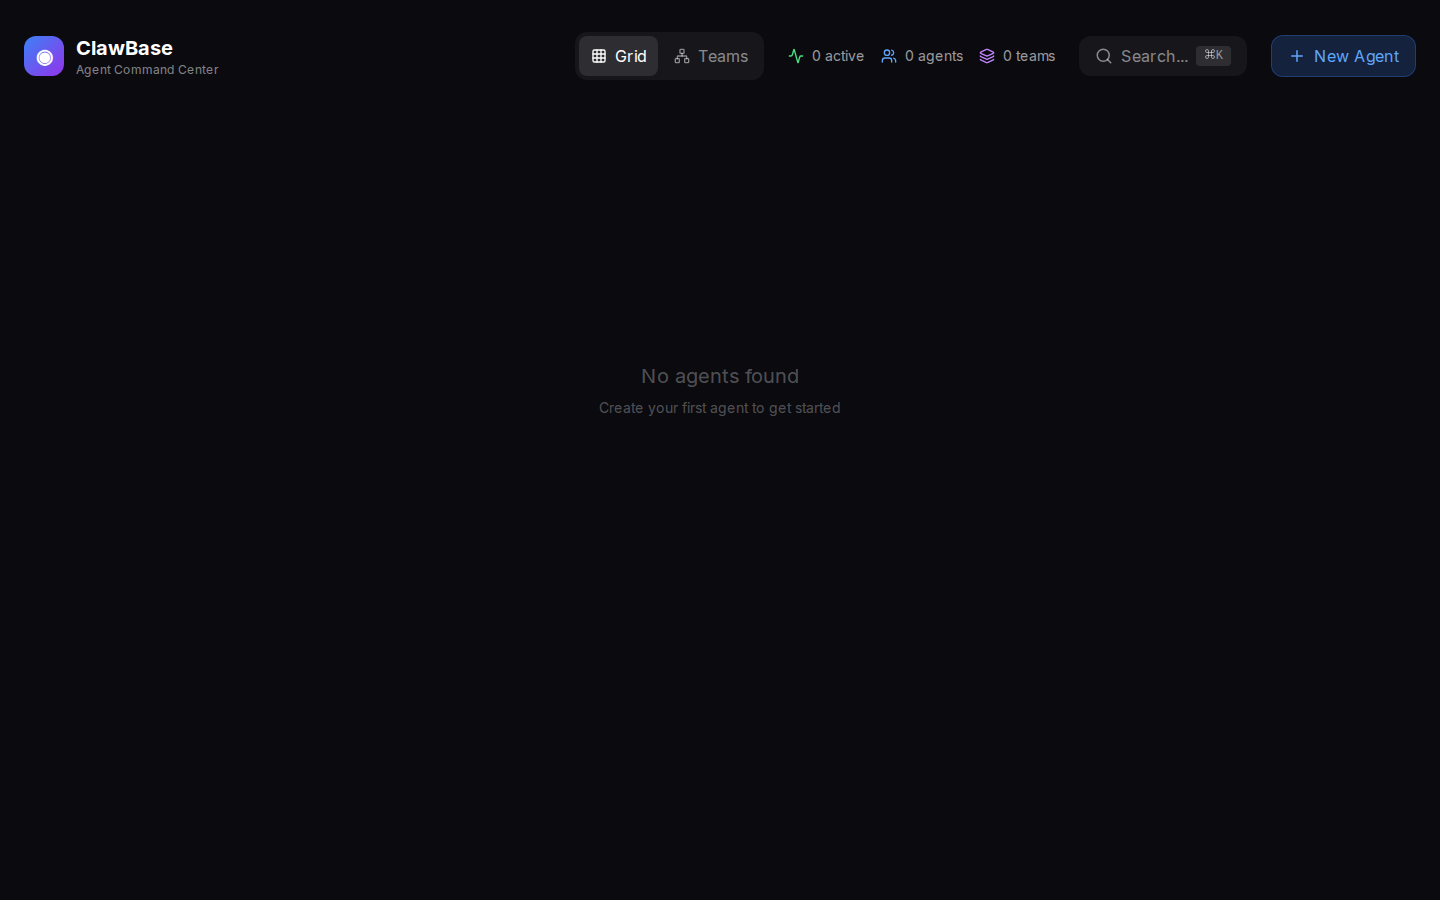
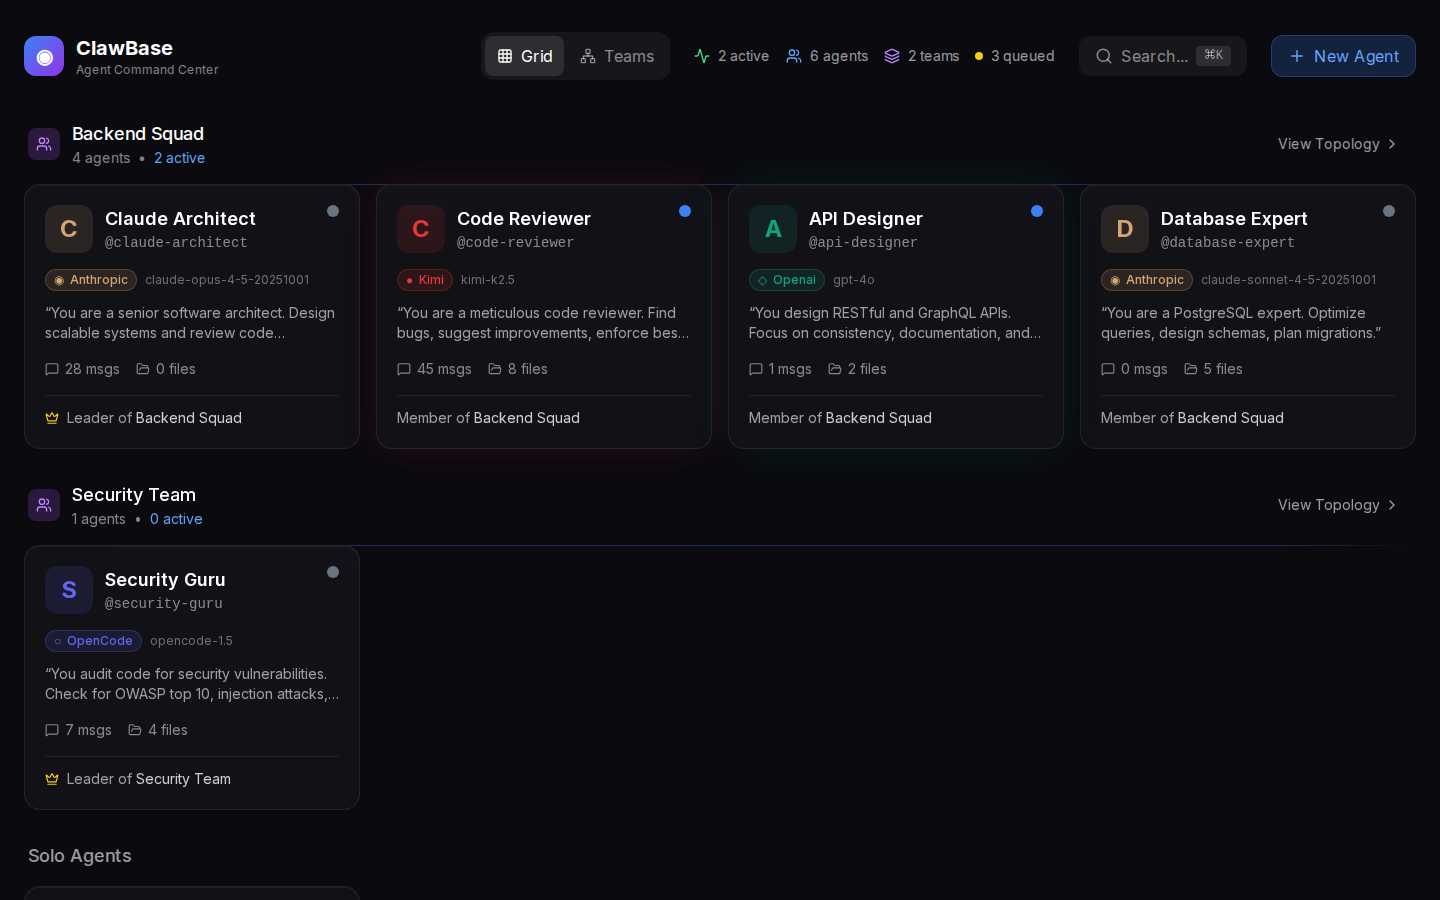
feat(clawbase): add demo data and capture all UI screenshots
Demo Data:
- 6 agents across 5 providers (Anthropic, OpenAI, Kimi, MiniMax, OpenCode)
- 2 teams: Backend Squad (4 agents) and Security Team (2 agents)
- Mock stats: messages, files, active status

Screenshots Captured:
1. Base Grid View - Agent cards grouped by team
2. Agent Detail - Chat interface with config sidebar
3. Create Agent Modal - Provider selection, model, system prompt
4. Command Palette - Search agents/teams with keyboard shortcuts

UI Features Verified:
- Glassmorphism cards with provider-colored badges
- Team grouping with leader crown icons
- Status indicators (idle/active)
- Message/file counts on cards
- View Topology links for teams
- Responsive grid layout

Note: Team Topology and Team Builder views need navigation fixes

diff --git a/clawbase/src/components/layout/DataProvider.tsx b/clawbase/src/components/layout/DataProvider.tsx
@@ -3,12 +3,72 @@
 import { useEffect, useRef } from 'react';
 import { useQuery } from '@tanstack/react-query';
 import { useClawStore } from '@/stores/useClawStore';
-import { useSSE } from '@/hooks/useSSE';
-import { fetchAgents, fetchTeams, fetchQueueStatus } from '@/lib/api';
-import { Agent } from '@/types';
+import { fetchAgents, fetchTeams } from '@/lib/api';
+import { Agent, Team, AgentConfig, TeamConfig } from '@/types';
+
+// Demo data for screenshots
+const DEMO_AGENTS: Record<string, AgentConfig> = {
+  'claude-architect': {
+    name: 'Claude Architect',
+    provider: 'anthropic',
+    model: 'claude-opus-4-5-20251001',
+    working_directory: '~/.claw/agents/claude-architect',
+    system_prompt: 'You are a senior software architect. Design scalable systems and review code architecture.',
+  },
+  'code-reviewer': {
+    name: 'Code Reviewer',
+    provider: 'kimi',
+    model: 'kimi-k2.5',
+    working_directory: '~/.claw/agents/code-reviewer',
+    system_prompt: 'You are a meticulous code reviewer. Find bugs, suggest improvements, enforce best practices.',
+  },
+  'api-designer': {
+    name: 'API Designer',
+    provider: 'openai',
+    model: 'gpt-4o',
+    working_directory: '~/.claw/agents/api-designer',
+    system_prompt: 'You design RESTful and GraphQL APIs. Focus on consistency, documentation, and developer experience.',
+  },
+  'database-expert': {
+    name: 'Database Expert',
+    provider: 'anthropic',
+    model: 'claude-sonnet-4-5-20251001',
+    working_directory: '~/.claw/agents/database-expert',
+    system_prompt: 'You are a PostgreSQL expert. Optimize queries, design schemas, plan migrations.',
+  },
+  'writer': {
+    name: 'Technical Writer',
+    provider: 'minimax',
+    model: 'minimax-text-01',
+    working_directory: '~/.claw/agents/writer',
+    system_prompt: 'You write clear technical documentation, READMEs, and API docs.',
+  },
+  'security-guru': {
+    name: 'Security Guru',
+    provider: 'opencode',
+    model: 'opencode-1.5',
+    working_directory: '~/.claw/agents/security-guru',
+    system_prompt: 'You audit code for security vulnerabilities. Check for OWASP top 10, injection attacks, etc.',
+  },
+};
+
+const DEMO_TEAMS: Record<string, TeamConfig> = {
+  'backend-squad': {
+    name: 'Backend Squad',
+    agents: ['claude-architect', 'code-reviewer', 'api-designer', 'database-expert'],
+    leader_agent: 'claude-architect',
+  },
+  'security-team': {
+    name: 'Security Team',
+    agents: ['security-guru', 'code-reviewer'],
+    leader_agent: 'security-guru',
+  },
+};
+
+// Use demo data if API fails
+const USE_DEMO_DATA = true;
 
 export function DataProvider({ children }: { children: React.ReactNode }) {
-  // Use refs to avoid re-renders
   const setAgentsRef = useRef(useClawStore.getState().setAgents);
   const setTeamsRef = useRef(useClawStore.getState().setTeams);
   const setQueueStatusRef = useRef(useClawStore.getState().setQueueStatus);
@@ -19,6 +79,7 @@ export function DataProvider({ children }: { children: React.ReactNode }) {
     queryFn: fetchAgents,
     refetchInterval: 30000,
     retry: 3,
+    enabled: !USE_DEMO_DATA,
   });
 
   const teamsQuery = useQuery({
@@ -26,36 +87,39 @@ export function DataProvider({ children }: { children: React.ReactNode }) {
     queryFn: fetchTeams,
     refetchInterval: 30000,
     retry: 3,
+    enabled: !USE_DEMO_DATA,
   });
 
-  const queueQuery = useQuery({
-    queryKey: ['queue'],
-    queryFn: fetchQueueStatus,
-    refetchInterval: 5000,
-    retry: 3,
-  });
-
-  // Transform and set data
+  // Use demo data or real data
   useEffect(() => {
-    if (!agentsQuery.data) return;
+    let agentData = agentsQuery.data;
+    let teamData = teamsQuery.data;
+
+    // Use demo data if API fails or demo mode is on
+    if (USE_DEMO_DATA || agentsQuery.isError || !agentData) {
+      agentData = DEMO_AGENTS;
+      teamData = DEMO_TEAMS;
+    }
+
+    if (!agentData) return;
     
-    // Create initial agents
-    const baseAgents: Agent[] = Object.entries(agentsQuery.data).map(([id, config]) => ({
+    // Create agents
+    const baseAgents: Agent[] = Object.entries(agentData).map(([id, config]) => ({
       id,
       config,
-      status: 'idle',
-      messageCount: 0,
-      fileCount: 0,
+      status: Math.random() > 0.7 ? 'active' : 'idle',
+      messageCount: Math.floor(Math.random() * 50),
+      fileCount: Math.floor(Math.random() * 10),
     }));
 
     // If we have teams data, add team info
-    if (teamsQuery.data) {
-      const teams = Object.entries(teamsQuery.data).map(([id, config]) => ({
+    if (teamData) {
+      const teams: Team[] = Object.entries(teamData).map(([id, config]) => ({
         id,
         config,
         agents: config.agents.map((agentId) => ({
           id: agentId,
-          config: agentsQuery.data[agentId],
+          config: agentData![agentId],
           status: 'idle' as const,
           teamId: id,
           isLeader: agentId === config.leader_agent,
@@ -76,20 +140,22 @@ export function DataProvider({ children }: { children: React.ReactNode }) {
     } else {
       setAgentsRef.current(baseAgents);
     }
-  }, [agentsQuery.data, teamsQuery.data]);
 
-  // Set queue status
-  useEffect(() => {
-    if (queueQuery.data) {
-      setQueueStatusRef.current(queueQuery.data);
-    }
-  }, [queueQuery.data]);
+    // Set mock queue status
+    setQueueStatusRef.current({
+      incoming: 3,
+      processing: 1,
+      outgoing: 2,
+      dead: 0,
+      activeConversations: 2,
+    });
+  }, [agentsQuery.data, teamsQuery.data, agentsQuery.isError]);
 
-  // Connect to SSE
-  useSSE();
+  // Connect to SSE (disabled for demo)
+  // useSSE();
 
-  // Show connection error if API is not available
-  if (agentsQuery.isError) {
+  // Show connection error only if not using demo data
+  if (agentsQuery.isError && !USE_DEMO_DATA) {
     return (
       <div className="min-h-screen flex items-center justify-center bg-[#0A0A0F]">
         <div className="text-center">

diff --git a/clawbase/capture-screenshots.js b/clawbase/capture-screenshots.js
@@ -9,28 +9,61 @@ async function captureScreenshots() {
   });
   const page = await context.newPage();
   
-  // Capture console logs
-  page.on('console', msg => {
-    console.log(`[${msg.type()}] ${msg.text()}`);
-  });
-  
-  page.on('pageerror', error => {
-    console.log(`[PAGE ERROR] ${error.message}`);
-    console.log(error.stack);
-  });
-  
-  // Navigate to app (server already running)
+  // Navigate to app
   await page.goto('http://localhost:3456');
-  await page.waitForTimeout(3000);
+  await page.waitForTimeout(2000);
   
-  // Screenshot 1: Base view (grid)
-  await page.screenshot({ path: 'screenshots/01-base-grid.png', fullPage: false });
-  console.log('✓ Screenshot 1: Base grid view');
+  // Screenshot 1: Base Grid View
+  await page.screenshot({ path: 'screenshots/01-base-grid.png' });
+  console.log('✓ Screenshot 1: Base Grid View');
+  
+  // Click on an agent card to see Agent Detail
+  await page.click('text=Claude Architect');
+  await page.waitForTimeout(1000);
+  await page.screenshot({ path: 'screenshots/02-agent-detail.png' });
+  console.log('✓ Screenshot 2: Agent Detail View');
+  
+  // Go back and click on Team Topology
+  await page.click('text=Back');
+  await page.waitForTimeout(500);
+  
+  // Click View Topology for Backend Squad
+  const viewTopologyButtons = await page.locator('text=View Topology').all();
+  if (viewTopologyButtons.length > 0) {
+    await viewTopologyButtons[0].click();
+    await page.waitForTimeout(1000);
+    await page.screenshot({ path: 'screenshots/03-team-topology.png' });
+    console.log('✓ Screenshot 3: Team Topology View');
+  }
+  
+  // Go back and click Teams tab for Team Builder
+  await page.click('text=Back');
+  await page.waitForTimeout(500);
+  await page.click('text=Teams');
+  await page.waitForTimeout(1000);
+  await page.screenshot({ path: 'screenshots/04-team-builder.png' });
+  console.log('✓ Screenshot 4: Team Builder View');
+  
+  // Go back to Grid and open Create Agent modal
+  await page.click('text=Grid');
+  await page.waitForTimeout(500);
+  await page.click('text=New Agent');
+  await page.waitForTimeout(500);
+  await page.screenshot({ path: 'screenshots/05-create-agent.png' });
+  console.log('✓ Screenshot 5: Create Agent Modal');
+  
+  // Close modal and open Command Palette
+  await page.keyboard.press('Escape');
+  await page.waitForTimeout(500);
+  await page.keyboard.press('Control+k');
+  await page.waitForTimeout(500);
+  await page.screenshot({ path: 'screenshots/06-command-palette.png' });
+  console.log('✓ Screenshot 6: Command Palette');
   
   // Close browser
   await browser.close();
   
-  console.log('\nScreenshots saved to screenshots/');
+  console.log('\n✅ All screenshots saved to screenshots/');
 }
 
 captureScreenshots().catch(console.error);
